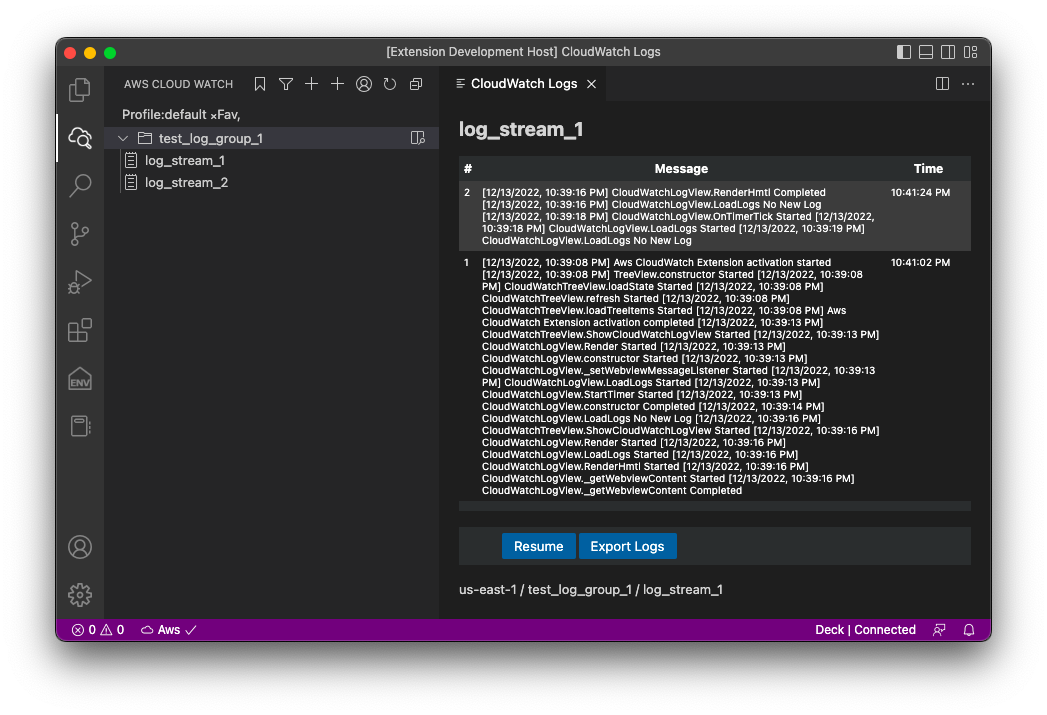
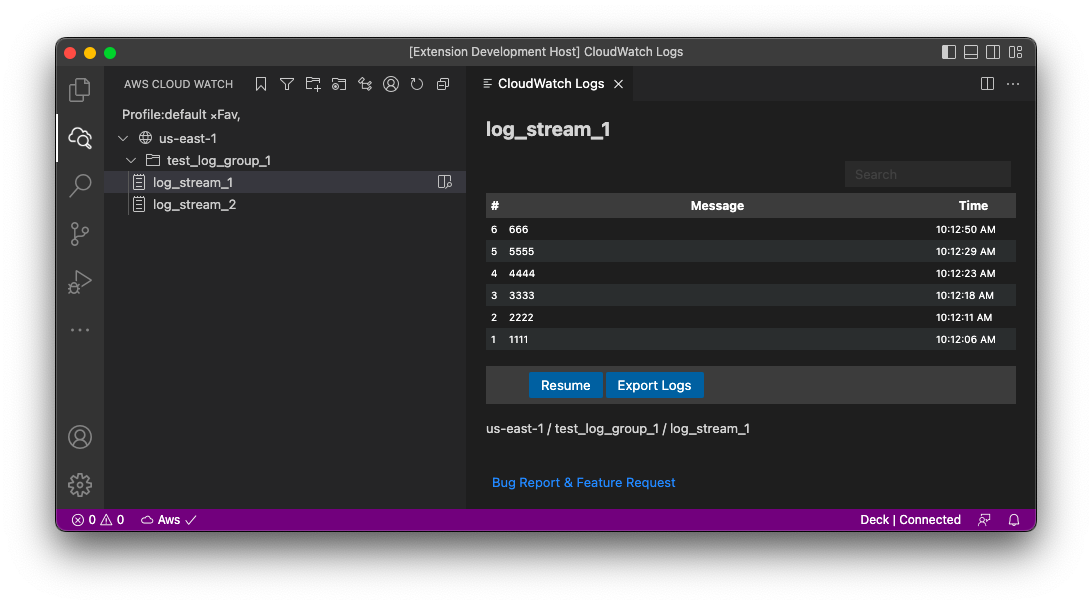
readme update

Changed region(s): [[0.0306, 0.0298, 0.9475, 0.9521]]

diff --git a/src/cloudwatch/CloudWatchLogView.ts b/src/cloudwatch/CloudWatchLogView.ts
@@ -165,11 +165,13 @@ export class CloudWatchLogView {
         </div>
 
         <table>
-            <tr><th width="5px">#</th><th>Message</th><th width="75px">Time</th></tr>
-            ${logRowHtml}
             <tr>
-                <th colspan=3></th>
+                <td colspan=3 style="text-align:right"><vscode-text-field id="search_text" placeholder="Search" disabled></vscode-text-field></td>
             </tr>
+            <tr><th width="5px">#</th><th>Message</th><th width="75px">Time</th></tr>
+
+            ${logRowHtml}
+
         </table>
         <br>
         <table>
@@ -187,6 +189,18 @@ export class CloudWatchLogView {
         </table>
         <br>
         ${this.Region} / ${this.LogGroup} / ${this.LogStream}
+        
+        <br>
+        <br>
+        <br>
+                    
+        <table>
+            <tr>
+                <td colspan="3">
+                    <vscode-link href="https://github.com/necatiarslan/aws-cloudwatch/issues/new">Bug Report & Feature Request</vscode-link>
+                </td>
+            </tr>
+        </table>
       </body>
     </html>
     `;

diff --git a/out/cloudwatch/CloudWatchLogView.js b/out/cloudwatch/CloudWatchLogView.js
@@ -129,11 +129,13 @@ class CloudWatchLogView {
         </div>
 
         <table>
-            <tr><th width="5px">#</th><th>Message</th><th width="75px">Time</th></tr>
-            ${logRowHtml}
             <tr>
-                <th colspan=3></th>
+                <td colspan=3 style="text-align:right"><vscode-text-field id="search_text" placeholder="Search" disabled></vscode-text-field></td>
             </tr>
+            <tr><th width="5px">#</th><th>Message</th><th width="75px">Time</th></tr>
+
+            ${logRowHtml}
+
         </table>
         <br>
         <table>
@@ -151,6 +153,18 @@ class CloudWatchLogView {
         </table>
         <br>
         ${this.Region} / ${this.LogGroup} / ${this.LogStream}
+        
+        <br>
+        <br>
+        <br>
+                    
+        <table>
+            <tr>
+                <td colspan="3">
+                    <vscode-link href="https://github.com/necatiarslan/aws-cloudwatch/issues/new">Bug Report & Feature Request</vscode-link>
+                </td>
+            </tr>
+        </table>
       </body>
     </html>
     `;

diff --git a/media/main.js b/media/main.js
@@ -10,6 +10,8 @@ function main() {
   const ExportLogsButton = document.getElementById("export_logs");
   ExportLogsButton.addEventListener("click", ExportLogsClick);
 
+  const SearchTextBox = document.getElementById("search_text");
+  SearchTextBox.addEventListener("change", SearchTextChanged);
 
 }
 
@@ -25,3 +27,10 @@ function ExportLogsClick() {
     command: "export_logs"
   });
 }
+
+function SearchTextChanged() {
+  const SearchTextBox = document.getElementById("search_text");
+  let searchText = SearchTextBox.value;
+  console.log(searchText);
+}
+

diff --git a/README.md b/README.md
@@ -1,25 +1,27 @@
 ![screenshoot](media/main-screen.png)
 
 # Aws CloudWatch 
-This is a vscode extension to browse Aws CloudWatch Logs.
+This extension is designed to make it easier and more convenient for developers to access and review their Aws CloudWatch logs without leaving vscode. \
+It allows you to add multiple log groups and log streams from different regions, giving you a centralized view of all your log data in one place. \
+You can use the search function to quickly find specific logs, or add them to your favorites list for easy access later on.
 
+One of the main advantages of this extension is its speed. It loads logs faster than the AWS console, saving you time and frustration. \
+It also provides a more streamlined and intuitive interface for browsing and reviewing logs, making it easier to find the information you need.
+
+If you encounter a network error while using it, you may need to add proxy. Simply go to the Visual Studio Code settings and search for "proxy," then enter your HTTP/HTTPS proxy URL to resolve the issue.
+
+Overall, this extension is a valuable tool for any developer working with AWS CloudWatch logs, offering a faster and more convenient way to access and review log data.
+
+## Aws Credentials Setup
 To Access Aws, you need to configure aws credentials.
-For more detail on aws credentials
-https://docs.aws.amazon.com/cli/latest/userguide/cli-configure-files.html
-
-The extension uses same credentials and allows you to select the profile (aws aim user).
-
-If you need proxy settings, goto vscode settings and update Http:Proxy setting
+For more detail on aws credentials \
+https://docs.aws.amazon.com/cli/latest/userguide/cli-configure-files.html \
+https://www.youtube.com/watch?v=SON8sY1iOBU
 
 ## Bug Report
 To report your bugs or request new features, use link below\
 https://github.com/necatiarslan/aws-cloudwatch/issues/new
 
-## TODO:
-- Load all logs, not only latest 50
-- Search in message
-- Show loading message when waiting
-- Special color codes for logs
 
 Follow me on linkedin to get latest news \
 https://www.linkedin.com/in/necati-arslan/
